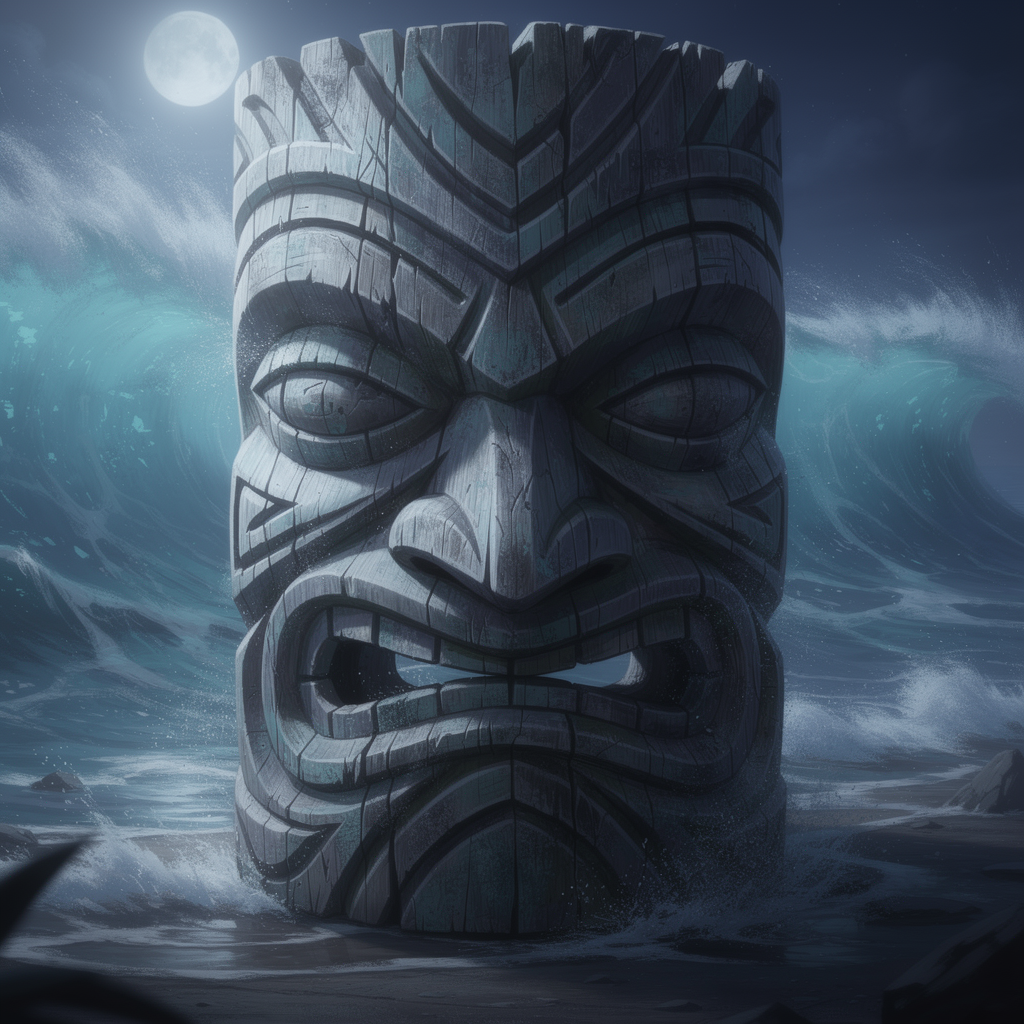
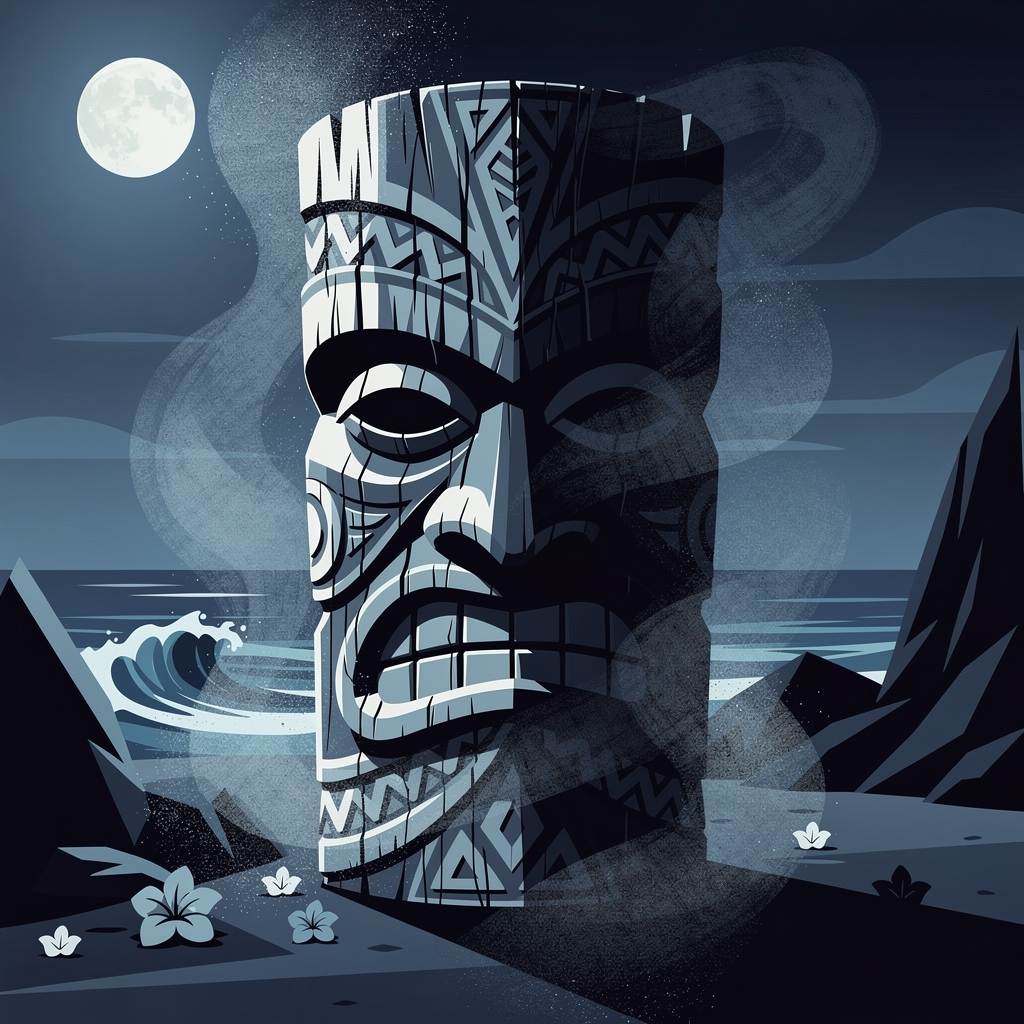
refactor: remove map/grid-frame assets and unify prompts to structured style
- Remove map and grid-frame from generation + client theme image mapping
- Delete map/grid-frame files across all themes
- Shift background/loading/logo/theme-icon prompts to structured JSON style
- Align block/grid templates with the new style language
- Regenerate theme-1 assets (including blocks) with updated prompt system

diff --git a/scripts/generate-assets/lib/prompts.ts b/scripts/generate-assets/lib/prompts.ts
@@ -186,55 +186,99 @@ export function buildBlockMultiPrompt(theme: ThemeDefinition, color: string, blo
 
 export function buildBackgroundPrompt(theme: ThemeDefinition): string {
   return `
-Generate a full-bleed background image for a mobile puzzle game. SQUARE format (1:1).
-This is NOT a framed picture. The scene fills the ENTIRE canvas from edge to edge like a photograph taken inside the world.
-Theme: ${theme.name} — ${theme.description}.
-Scene: ${theme.scene}
-Style: Rich digital painting. Atmospheric, immersive, painterly. Deep colors and dramatic lighting.
-Composition: The viewer is INSIDE the scene looking around. Layered depth — foreground silhouettes at edges, main scene in the middle, distant background fading into atmosphere.
-Important content stays in the center 60%. Edges are atmospheric filler (sky, ground, foliage).
-Mood: ${theme.mood}. Dominant colors: ${theme.palette.bg} to ${theme.palette.accent}.
-The image must be a seamless full-bleed scene with NO borders, NO frames, NO vignettes, NO picture-in-picture effect.
-Opaque fill. No text, no UI, no people, no logos.
+{
+  "style_name": "${theme.name} Immersive Theme Background",
+  "inspiration": [
+    "${theme.blockData.inspirations[0]}",
+    "${theme.blockData.inspirations[1]}",
+    "Art Deco poster composition",
+    "Modern vector landscape illustration"
+  ],
+  "scene": "${theme.scene}",
+  "style": "flat vector illustration with bold linework, smooth gradients, and high-contrast cel shading",
+  "color_palette": {
+    "primary": "${theme.palette.bg}",
+    "secondary": "${theme.palette.accent}",
+    "highlight": "${lightenHex(theme.palette.accent, 0.25)}",
+    "shadow": "${darkenHex(theme.palette.bg, 0.35)}",
+    "background_gradient": ["${darkenHex(theme.palette.bg, 0.25)}", "${theme.palette.bg}"]
+  },
+  "lighting": "cinematic environmental lighting with clear highlight and shadow separation",
+  "mood": "${theme.mood}",
+  "background": {
+    "type": "scenery",
+    "details": "full-bleed world scene; no frame, no border, no vignette"
+  },
+  "composition": "wide immersive composition with strong central readability and decorative edges",
+  "camera": {
+    "angle": "eye-level",
+    "distance": "wide shot",
+    "lens": "35mm",
+    "focus": "sharp focus across frame"
+  },
+  "medium": "digital vector art",
+  "textures": "clean edges, smooth gradient volumes, subtle print-like grain",
+  "effects": "subtle atmospheric depth and selective glow accents",
+  "themes": ["${theme.name}", "${theme.blockData.themeKeywords[0]}", "${theme.blockData.themeKeywords[1]}", "${theme.blockData.themeKeywords[2]}"],
+  "usage_notes": "Square 1:1, opaque image, no text, no UI, no logos, no characters."
+}
 `.trim();
 }
 
 export function buildLoadingBackgroundPrompt(theme: ThemeDefinition): string {
   return `
-Generate a full-bleed loading screen image for a mobile puzzle game. SQUARE format (1:1).
-This is NOT a framed picture. The scene fills the ENTIRE canvas from edge to edge.
-Theme: ${theme.name} — ${theme.description}.
-Scene: ${theme.loadingScene}
-Style: Rich digital painting. Atmospheric, moody, slightly darker and more mysterious than a typical game background.
-Composition: Close-up atmospheric detail. The viewer is right up against the subject. Fills the full canvas edge to edge.
-Main focal point centered. Edges fade into dark atmosphere.
-Mood: ${theme.mood}. Dominant colors: ${theme.palette.bg} to ${theme.palette.accent}.
-The image must be a seamless full-bleed scene with NO borders, NO frames, NO vignettes, NO picture-in-picture effect.
-Opaque fill. No text, no UI, no people, no logos.
+{
+  "style_name": "${theme.name} Loading Atmosphere",
+  "inspiration": [
+    "${theme.blockData.inspirations[0]}",
+    "${theme.blockData.inspirations[1]}",
+    "Stylized cinematic key art",
+    "Modern vector poster composition"
+  ],
+  "scene": "${theme.loadingScene}",
+  "style": "flat vector illustration with bold linework, smooth gradients, and dramatic cel-shaded contrast",
+  "color_palette": {
+    "primary": "${theme.palette.bg}",
+    "secondary": "${theme.palette.accent}",
+    "highlight": "${lightenHex(theme.palette.accent, 0.22)}",
+    "shadow": "${darkenHex(theme.palette.bg, 0.42)}",
+    "background_gradient": ["${darkenHex(theme.palette.bg, 0.35)}", "${theme.palette.bg}"]
+  },
+  "lighting": "focused hero lighting with moody shadow falloff",
+  "mood": "${theme.mood}, cinematic, mysterious",
+  "background": {
+    "type": "scenery",
+    "details": "close-up immersive scene filling the entire frame"
+  },
+  "composition": "centered focal hierarchy, atmospheric edges, no framing",
+  "camera": {
+    "angle": "eye-level",
+    "distance": "medium close-up",
+    "lens": "50mm",
+    "focus": "sharp hero details"
+  },
+  "medium": "digital vector art",
+  "effects": "subtle glow accents and depth haze",
+  "usage_notes": "Square 1:1, opaque image, no text, no UI, no logos, no characters."
+}
 `.trim();
 }
 
 export function buildLogoPrompt(theme: ThemeDefinition): string {
   return `
-Art style: Stylized 2D vector/cartoon game art. Bold black outlines as separators. Flat-fill cel-shading with 2-3 tonal steps per surface. Subtle distressed grunge texture overlay. Clean graphic readability. NOT photographic, NOT pixel art, NOT 3D rendered. Think tribal mask / cultural emblem aesthetic.
-
-Generate a game logo for a puzzle game called "zKube".
-Theme: ${theme.name}
-
-LAYOUT: The text "zKube" must be LARGE and DOMINANT — filling at least 70% of the canvas width.
-The text is the hero element. Theme decorations are subtle accents AROUND and BEHIND the text, never competing.
-
-TYPOGRAPHY: Ultra-bold display font. THICK black outline (4-6px). Strong white inner glow or highlight for maximum contrast.
-Each letter clearly separated and readable even at small sizes (48px).
-
-DECORATION: Small ${theme.name} motifs (${theme.motifs}) as subtle accents flanking or framing the text.
-A small isometric cube below or beside the text with theme patterns. Keep decorations MINIMAL — the text is king.
-
-COLOR: Primary fill ${theme.palette.accent} with a darker shade for depth. STRONG white specular highlights on top edges.
-Thick dark outline ensures readability on ANY background. High contrast between fill and outline.
-
-Square format. Centered vertically and horizontally.
-Dark background that blends with the theme's background color.
+{
+  "style_name": "${theme.name} zKube Logo",
+  "scene": "A dominant zKube wordmark with subtle ${theme.name} motifs surrounding it",
+  "style": "flat vector illustration with bold linework, smooth gradients, and high-contrast cel shading",
+  "color_palette": {
+    "primary": "${theme.palette.accent}",
+    "highlight": "${lightenHex(theme.palette.accent, 0.3)}",
+    "shadow": "${darkenHex(theme.palette.accent, 0.35)}",
+    "background": "${darkenHex(theme.palette.bg, 0.25)}"
+  },
+  "details": "Text 'zKube' fills at least 70% width, thick dark outline, bright inner highlights, minimal thematic motifs (${theme.motifs})",
+  "usage_notes": "Square format. No extra text. Keep decorative elements secondary to readability."
+}
 `.trim();
 }
 
@@ -261,14 +305,18 @@ Interior is a dark flat fill matching the grid material.
 
 export function buildThemeIconPrompt(theme: ThemeDefinition): string {
   return `
-Art style: Stylized 2D vector/cartoon game art. Bold black outlines as separators. Flat-fill cel-shading with 2-3 tonal steps per surface. Subtle distressed grunge texture overlay. Clean graphic readability. NOT photographic, NOT pixel art, NOT 3D rendered. Think tribal mask / cultural emblem aesthetic.
-
-Generate a small square icon representing the "${theme.name}" theme for a game settings menu.
-Theme: ${theme.name} (${theme.icon})
-Design: A single iconic symbol that instantly communicates the theme. For example: ${theme.motifs} — pick the most recognizable single element.
-Style: Bold silhouette icon, white fill. Thick strokes (3-4px equivalent). Clean, readable at 48×48 pixels.
-Centered in frame. Square format. No text.
-Dark background matching the theme.
+{
+  "style_name": "${theme.name} Theme Icon",
+  "scene": "Single emblematic ${theme.name} symbol",
+  "style": "flat vector icon with bold linework and clean silhouette readability",
+  "color_palette": {
+    "symbol": "#FFFFFF",
+    "background": "${darkenHex(theme.palette.bg, 0.2)}",
+    "accent": "${theme.palette.accent}"
+  },
+  "details": "Use one recognizable symbol from ${theme.motifs}; thick strokes, centered composition, readable at 48x48",
+  "usage_notes": "Square icon, no text, no logos, no clutter."
+}
 `.trim();
 }
 

diff --git a/client-budokan/src/index.css b/client-budokan/src/index.css
@@ -88,7 +88,7 @@
     --theme-grid-cell-alt: #6d4c41;
     --theme-grid-lines: #3e2723;
     --theme-grid-bg-image: url("/assets/theme-1/grid-bg.png");
-    --theme-grid-frame-image: url("/assets/theme-1/grid-frame.png");
+    --theme-grid-frame-image: none;
     --theme-frame-border: #b8860b;
     --theme-hud-bar: #1a0e08;
     --theme-hud-bar-border: #5d4037;
@@ -121,7 +121,7 @@
     --theme-grid-cell-alt: #261810;
     --theme-grid-lines: #8b6914;
     --theme-grid-bg-image: url("/assets/theme-2/grid-bg.png");
-    --theme-grid-frame-image: url("/assets/theme-2/grid-frame.png");
+    --theme-grid-frame-image: none;
     --theme-frame-border: #d4af37;
     --theme-hud-bar: #140c06;
     --theme-hud-bar-border: #8b6914;
@@ -154,7 +154,7 @@
     --theme-grid-cell-alt: #111130;
     --theme-grid-lines: #ff00ff;
     --theme-grid-bg-image: url("/assets/theme-3/grid-bg.png");
-    --theme-grid-frame-image: url("/assets/theme-3/grid-frame.png");
+    --theme-grid-frame-image: none;
     --theme-frame-border: #ff00ff;
     --theme-hud-bar: #08081a;
     --theme-hud-bar-border: #bf00ff;
@@ -187,7 +187,7 @@
     --theme-grid-cell-alt: #103555;
     --theme-grid-lines: #1a6e8e;
     --theme-grid-bg-image: url("/assets/theme-4/grid-bg.png");
-    --theme-grid-frame-image: url("/assets/theme-4/grid-frame.png");
+    --theme-grid-frame-image: none;
     --theme-frame-border: #20b2aa;
     --theme-hud-bar: #081e35;
     --theme-hud-bar-border: #1a6e8e;
@@ -220,7 +220,7 @@
     --theme-grid-cell-alt: #254a24;
     --theme-grid-lines: #3d6b35;
     --theme-grid-bg-image: url("/assets/theme-5/grid-bg.png");
-    --theme-grid-frame-image: url("/assets/theme-5/grid-frame.png");
+    --theme-grid-frame-image: none;
     --theme-frame-border: #8b7355;
     --theme-hud-bar: #142814;
     --theme-hud-bar-border: #3d6b35;
@@ -253,7 +253,7 @@
     --theme-grid-cell-alt: #aa8a64;
     --theme-grid-lines: #8b6914;
     --theme-grid-bg-image: url("/assets/theme-6/grid-bg.png");
-    --theme-grid-frame-image: url("/assets/theme-6/grid-frame.png");
+    --theme-grid-frame-image: none;
     --theme-frame-border: #cd853f;
     --theme-hud-bar: #5c3d1e;
     --theme-hud-bar-border: #8b6914;
@@ -286,7 +286,7 @@
     --theme-grid-cell-alt: #b5d0de;
     --theme-grid-lines: #6090a8;
     --theme-grid-bg-image: url("/assets/theme-7/grid-bg.png");
-    --theme-grid-frame-image: url("/assets/theme-7/grid-frame.png");
+    --theme-grid-frame-image: none;
     --theme-frame-border: #7eb8d0;
     --theme-hud-bar: #3a6078;
     --theme-hud-bar-border: #6090a8;
@@ -319,7 +319,7 @@
     --theme-grid-cell-alt: #251414;
     --theme-grid-lines: #8b2500;
     --theme-grid-bg-image: url("/assets/theme-8/grid-bg.png");
-    --theme-grid-frame-image: url("/assets/theme-8/grid-frame.png");
+    --theme-grid-frame-image: none;
     --theme-frame-border: #ff4500;
     --theme-hud-bar: #140808;
     --theme-hud-bar-border: #8b2500;
@@ -352,7 +352,7 @@
     --theme-grid-cell-alt: #f5d8e5;
     --theme-grid-lines: #dda0c8;
     --theme-grid-bg-image: url("/assets/theme-9/grid-bg.png");
-    --theme-grid-frame-image: url("/assets/theme-9/grid-frame.png");
+    --theme-grid-frame-image: none;
     --theme-frame-border: #e88ebf;
     --theme-hud-bar: #c06090;
     --theme-hud-bar-border: #dda0c8;
@@ -385,7 +385,7 @@
     --theme-grid-cell-alt: #382c20;
     --theme-grid-lines: #8b6f47;
     --theme-grid-bg-image: url("/assets/theme-10/grid-bg.png");
-    --theme-grid-frame-image: url("/assets/theme-10/grid-frame.png");
+    --theme-grid-frame-image: none;
     --theme-frame-border: #b8860b;
     --theme-hud-bar: #1e1610;
     --theme-hud-bar-border: #8b6f47;

diff --git a/scripts/generate-assets/generate-images.ts b/scripts/generate-assets/generate-images.ts
@@ -6,10 +6,8 @@ import {
   buildBonusIconPrompt,
   buildButtonPrompt,
   buildGridBackgroundPrompt,
-  buildGridFramePrompt,
   buildLoadingBackgroundPrompt,
   buildLogoPrompt,
-  buildMapPrompt,
   buildPanelPrompt,
   buildParticlePrompt,
   buildThemeIconPrompt,
@@ -175,15 +173,6 @@ function buildPerThemeJobs(themeId: string, theme: ThemeDefinition, filter?: Ass
       prompt: buildGridBackgroundPrompt(theme),
       ...getTargetDimensions("grid-bg.png", { width: 768, height: 1024 }),
     });
-    jobs.push({
-      scope: "per-theme",
-      category: "grid",
-      themeId,
-      filename: "grid-frame.png",
-      outputPath: path.join(themeRoot, "grid-frame.png"),
-      prompt: buildGridFramePrompt(theme),
-      ...getTargetDimensions("grid-frame.png", { width: 1152, height: 1440 }),
-    });
   }
 
   if (shouldIncludeCategory("theme-icon", filter)) {
@@ -195,18 +184,6 @@ function buildPerThemeJobs(themeId: string, theme: ThemeDefinition, filter?: Ass
       outputPath: path.join(themeRoot, "theme-icon.png"),
       prompt: buildThemeIconPrompt(theme),
       ...getTargetDimensions("theme-icon.png", { width: 128, height: 128 }),
-    });
-  }
-
-  if (shouldIncludeCategory("map", filter)) {
-    jobs.push({
-      scope: "per-theme",
-      category: "map",
-      themeId,
-      filename: "map.png",
-      outputPath: path.join(themeRoot, "map.png"),
-      prompt: buildMapPrompt(theme),
-      ...getTargetDimensions("map.png", { width: 1080, height: 1920 }),
     });
   }
 

diff --git a/client-budokan/src/config/themes.ts b/client-budokan/src/config/themes.ts
@@ -502,9 +502,7 @@ export function getThemeImages(themeId: ThemeId) {
     logo: `${base}/logo.png`,
     background: `${base}/background.png`,
     gridBg: `${base}/grid-bg.png`,
-    gridFrame: `${base}/grid-frame.png`,
     themeIcon: `${base}/theme-icon.png`,
-    map: `${base}/map.png`,
   };
 }
 

diff --git a/scripts/generate-assets/lib/types.ts b/scripts/generate-assets/lib/types.ts
@@ -5,7 +5,6 @@ export const PER_THEME_ASSETS = [
   "logo",
   "grid",
   "theme-icon",
-  "map",
 ] as const;
 
 export const GLOBAL_ASSETS = ["buttons", "shared-icons", "catalog-icons", "bonus-icons", "ui-chrome", "panels", "particles"] as const;
